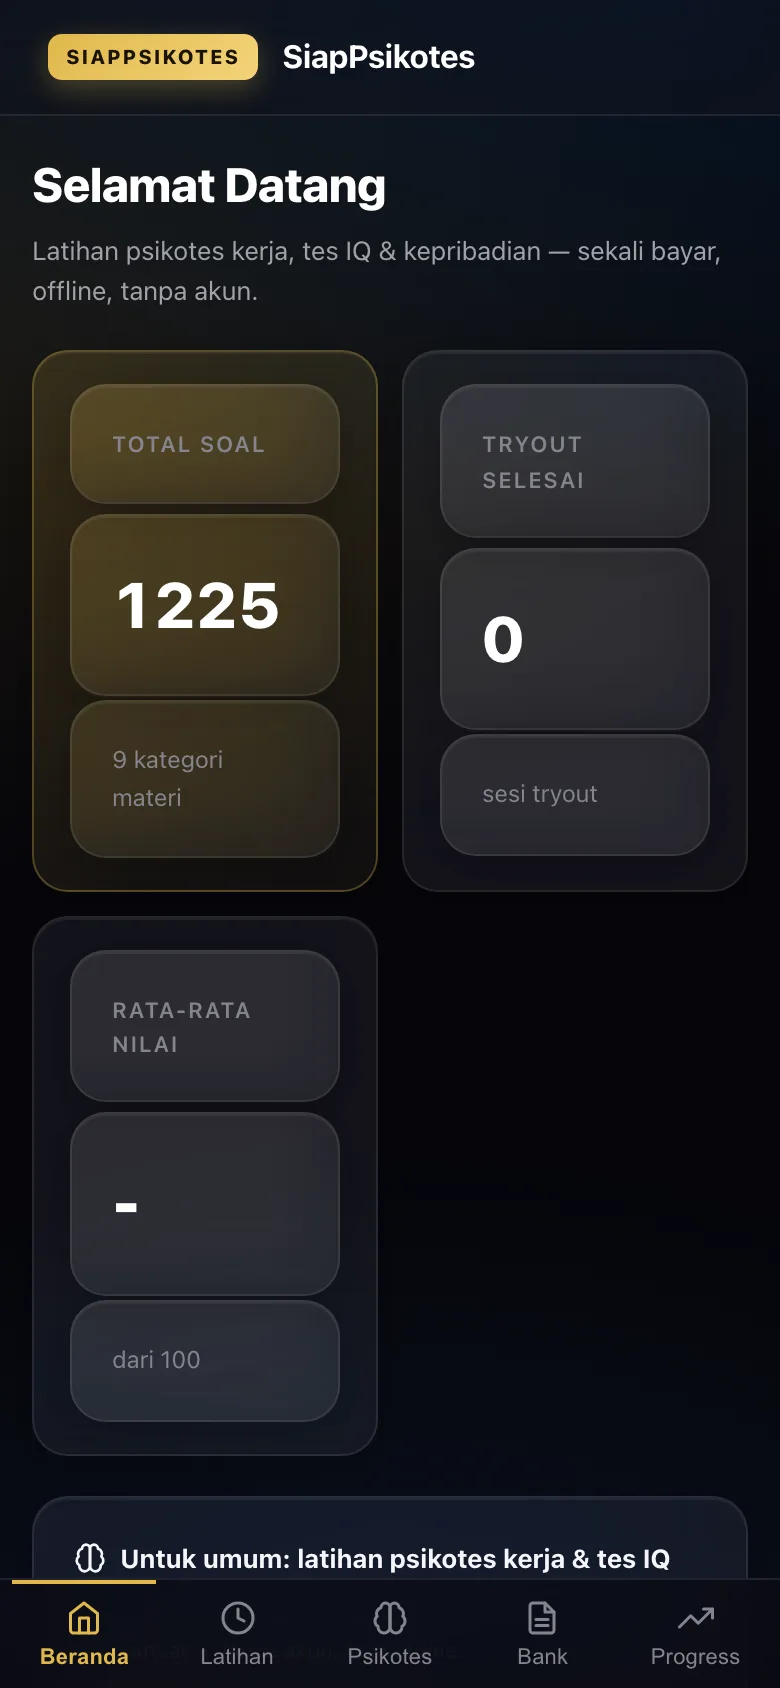
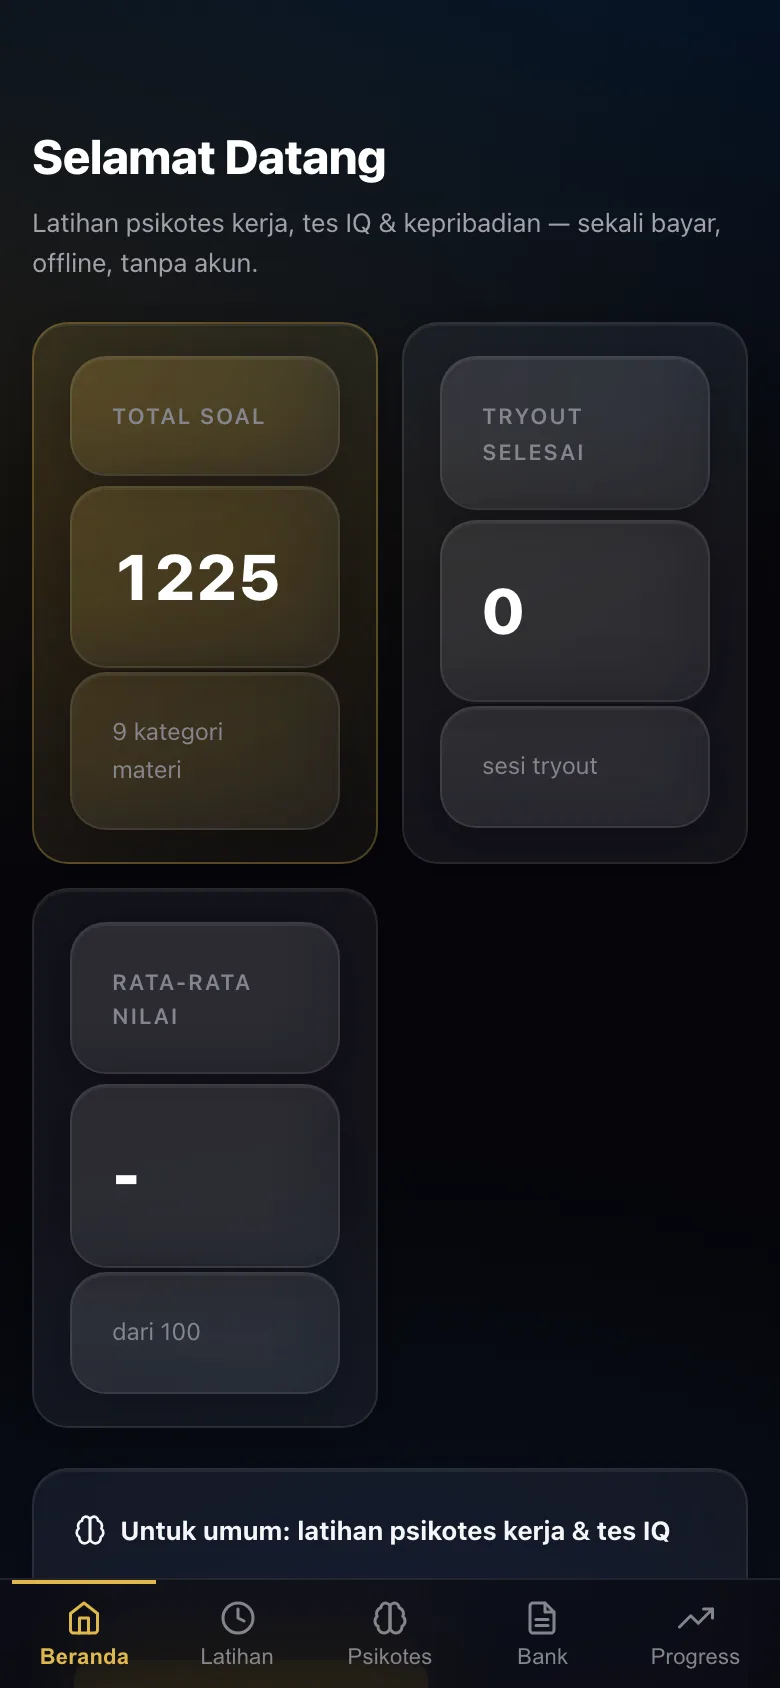
feat: prototipe iPhone RAPIH + contoh tes yang bisa diketuk-ketuk di layar iPhone
Permintaan pemilik: prototipenya dirapikan, dan kalau bisa bisa dipencet-pencet supaya kelihatan
bagaimana tesnya bekerja.

1. KERAPIAN BINGKAI (tiga cacat yang ditemukan dari tangkapan layar pemilik, semuanya diperbaiki)
   - Bilah status tiruan menabrak lencana kuning aplikasi: sekarang header aplikasi (class "topbar")
     DISEMBUNYIKAN saat memotret dan isi digeser 54 titik ke bawah, jadi mengikuti safe area iPhone asli.
   - Dynamic Island terlalu rendah & tebal: dipindah ke atas (12px), dibuat lebih tipis (78x22).
   - Ikon status tidak standar (titik-titik, tulisan "WIFI", kotak kecil): diganti GLYPH iPhone sungguhan
     dalam bentuk SVG - batang sinyal bertingkat, lengkung WiFi, dan baterai bergaris tepi dengan isi.
   Potret layar juga diperkecil: 118 KB -> 104 KB karena header tak lagi ikut.

2. CONTOH TES YANG BISA DIKETUK (3 soal contoh, bukan gambar mati)
   - Satu soal per jenis: wawasan kebangsaan (tanggal penetapan Pancasila sebagai dasar negara),
     deret angka (2, 4, 8, 16, ...), dan penalaran (semua peserta wajib membawa pensil).
   - Bisa diketuk: jawaban salah ditandai merah, jawaban benar ditandai hijau, pembahasan muncul,
     skor bertambah, tombol "Soal berikutnya", lalu layar SKOR AKHIR (mis. 2/3) dengan ajakan
     membuka akses penuh.
   - Petunjuk "Contoh tes - ketuk salah satu jawaban" supaya pengunjung tahu bisa diketuk.
   - Dibuat murni HTML/CSS/JS di halaman arahan: TIDAK menyentuh gerbang aplikasi dan tidak membuka
[…]

diff --git a/psikotes/index.html b/psikotes/index.html
@@ -134,8 +134,8 @@
                 0 0 70px -22px rgba(230,197,82,.38);
   }
   .ponsel .bingkai::before, .iphone::before {
-    content: ""; position: absolute; top: 20px; left: 50%; transform: translateX(-50%);
-    width: 88px; height: 25px; background: #05070c; border-radius: 15px; z-index: 3;
+    content: ""; position: absolute; top: 12px; left: 50%; transform: translateX(-50%);
+    width: 78px; height: 22px; background: #04060a; border-radius: 12px; z-index: 3;
   }
   .ponsel .bingkai::after, .iphone::after {
     content: ""; position: absolute; bottom: 15px; left: 50%; transform: translateX(-50%);
@@ -143,15 +143,51 @@
   }
   .ponsel .bingkai img, .iphone img { border-radius: 38px; display: block; width: 100%; height: auto; }
   .iphone-status {
-    position: absolute; top: 15px; left: 0; right: 0; z-index: 4;
+    position: absolute; top: 14px; left: 0; right: 0; z-index: 4;
     display: flex; justify-content: space-between; align-items: center;
-    padding: 0 26px; color: #fff; font-size: 12px; font-weight: 700; letter-spacing: .2px;
+    padding: 0 24px; color: #fff; font-size: 12.5px; font-weight: 600;
+    font-variant-numeric: tabular-nums; letter-spacing: .1px;
   }
-  .iphone-status .kanan { display: flex; gap: 4px; align-items: center; opacity: .95; }
+  .iphone-status .kanan { display: flex; gap: 5px; align-items: center; }
+  .iphone-status svg { display: block; }
   .iphone-sorot { position: absolute; inset: 0; border-radius: 50px; pointer-events: none;
     background: linear-gradient(160deg, rgba(255,255,255,.10) 0%, rgba(255,255,255,0) 38%); }
   .iphone-dasar { width: 100%; max-width: 330px; margin: 0 auto; }
 
+
+  /* Contoh tes yang bisa diketik-ketuk di layar iPhone */
+  .demo { display: flex; flex-direction: column; height: 100%; background: var(--bg); }
+  .demo-kepala { display: flex; justify-content: space-between; align-items: center;
+    padding: 8px 14px 6px; font-size: 12px; color: var(--muted); border-bottom: 1px solid var(--line); }
+  .demo-jalur { font-size: 10.5px; letter-spacing: .6px; text-transform: uppercase; color: var(--gold); font-weight: 700; }
+  .demo-isi { flex: 1; padding: 14px; display: flex; flex-direction: column; gap: 10px; overflow: hidden; }
+  .demo-soal { font-size: 14px; line-height: 1.5; color: var(--text); font-weight: 600; }
+  .demo-opsi { display: flex; align-items: center; gap: 10px; width: 100%; text-align: left;
+    padding: 11px 12px; border-radius: 12px; border: 1px solid var(--line2); background: var(--surface);
+    color: var(--text); font-size: 13.5px; font-family: inherit; cursor: pointer; transition: .18s; }
+  .demo-opsi:hover { border-color: var(--gold); transform: translateY(-1px); }
+  .demo-opsi .huruf { flex: 0 0 22px; height: 22px; border-radius: 50%; background: var(--bg2);
+    display: flex; align-items: center; justify-content: center; font-size: 11.5px; font-weight: 700; color: var(--muted); }
+  .demo-opsi.benar { border-color: #22c55e; background: rgba(34,197,94,.12); }
+  .demo-opsi.benar .huruf { background: #22c55e; color: #04140a; }
+  .demo-opsi.salah { border-color: #ef4444; background: rgba(239,68,68,.12); }
+  .demo-opsi.salah .huruf { background: #ef4444; color: #1a0505; }
+  .demo-opsi[disabled] { cursor: default; }
+  .demo-tanggapan { font-size: 12.5px; line-height: 1.5; color: var(--muted); min-height: 18px; }
+  .demo-tanggapan strong { color: var(--gold); }
+  .demo-kaki { padding: 10px 14px 14px; border-top: 1px solid var(--line); display: flex;
+    gap: 8px; align-items: center; }
+  .demo-lanjut { flex: 1; padding: 11px 14px; border-radius: 12px; border: 0; cursor: pointer;
+    background: linear-gradient(180deg, var(--gold), #c99a1f); color: #1a1405; font-weight: 700;
+    font-size: 13.5px; font-family: inherit; }
+  .demo-lanjut[hidden] { display: none; }
+  .demo-skor { font-size: 12px; color: var(--muted); }
+  .demo-hasil { flex: 1; display: flex; flex-direction: column; align-items: center; justify-content: center;
+    gap: 10px; text-align: center; padding: 18px; }
+  .demo-hasil .angka { font-size: 40px; font-weight: 800; color: var(--gold); line-height: 1; }
+  .demo-hasil p { margin: 0; font-size: 13px; color: var(--muted); line-height: 1.55; }
+  .demo-ajak { font-size: 11.5px; color: var(--text2); }
+  .demo-petunjuk { font-size: 11px; color: var(--gold); text-align: center; padding: 0 14px 10px; }
   .dua-kolom { display: grid; gap: 40px; align-items: center; }
   @media (min-width: 900px) {
     .dua-kolom { grid-template-columns: 1fr 1fr; gap: 56px; }
@@ -285,7 +321,17 @@
     <div class="lencana satu"><b>1.225</b><span>soal teraudit</span></div>
     <div class="lencana dua"><b>0</b><span>pelanggaran mutu</span></div>
     <div class="bingkai">
-      <span class="iphone-status"><span>9:41</span><span class="kanan">●●●● <span style="font-size:11px">WIFI</span> ▮</span></span><img src="img/iphone-soal.webp" width="780" height="1688" fetchpriority="high" alt="Aplikasi SiapPsikotes di iPhone: soal wawasan kebangsaan dengan pilihan A sampai D"><span class="iphone-sorot"></span>
+      <span class="iphone-status" aria-hidden="true"><span>9:41</span><span class="kanan"><svg width="17" height="11" viewBox="0 0 17 11" fill="currentColor" aria-hidden="true"><rect x="0" y="7.5" width="3" height="3.5" rx="1"/><rect x="4.6" y="5.4" width="3" height="5.6" rx="1"/><rect x="9.2" y="2.8" width="3" height="8.2" rx="1"/><rect x="13.8" y="0" width="3" height="11" rx="1"/></svg><svg width="16" height="11" viewBox="0 0 16 11" fill="none" stroke="currentColor" stroke-width="1.6" stroke-linecap="round" aria-hidden="true"><path d="M1 3.3a10.4 10.4 0 0 1 14 0"/><path d="M3.7 6.1a7 7 0 0 1 8.6 0"/><path d="M6.3 8.8a3.4 3.4 0 0 1 3.4 0"/></svg><svg width="25" height="12" viewBox="0 0 25 12" fill="none" aria-hidden="true"><rect x="0.5" y="0.5" width="21" height="11" rx="3.2" stroke="currentColor" stroke-opacity=".5"/><rect x="2" y="2" width="16" height="8" rx="2" fill="currentColor"/><path d="M23 4.2v3.6a2 2 0 0 0 0-3.6z" fill="currentColor" fill-opacity=".5"/></svg></span></span><div class="demo" id="demoContoh" data-langkah="0">
+          <div class="demo-kepala"><span id="demoNomor">SOAL 1 / 3</span><span class="demo-jalur" id="demoJalur">Wawasan kebangsaan</span></div>
+          <div class="demo-isi" id="demoIsi"></div>
+          <div class="demo-tanggapan" id="demoTanggapan" aria-live="polite"></div>
+          <div class="demo-petunjuk" id="demoPetunjuk">Contoh tes — ketuk salah satu jawaban</div>
+          <div class="demo-kaki">
+            <span class="demo-skor" id="demoSkor">Skor 0</span>
+            <button class="demo-lanjut" id="demoLanjut" hidden>Soal berikutnya</button>
+          </div>
+        </div>
+        <span class="iphone-sorot"></span>
     </div>
   </div>
 </div>
@@ -350,7 +396,7 @@
         <li>Bukan diagnosis psikologi dan bukan penentu kelulusan — hasilnya untuk mengenali dirimu.</li>
       </ul>
     </div>
-    <div class="iphone iphone-dasar"><span class="iphone-status"><span>9:41</span><span class="kanan">●●●● <span style="font-size:11px">WIFI</span> ▮</span></span><img src="img/iphone-hasil.webp" width="780" height="1688" loading="lazy" decoding="async" alt="Aplikasi SiapPsikotes di iPhone: hasil tes kepribadian lima sifat dengan penjelasan"><span class="iphone-sorot"></span></div>
+    <div class="iphone iphone-dasar"><span class="iphone-status" aria-hidden="true"><span>9:41</span><span class="kanan"><svg width="17" height="11" viewBox="0 0 17 11" fill="currentColor" aria-hidden="true"><rect x="0" y="7.5" width="3" height="3.5" rx="1"/><rect x="4.6" y="5.4" width="3" height="5.6" rx="1"/><rect x="9.2" y="2.8" width="3" height="8.2" rx="1"/><rect x="13.8" y="0" width="3" height="11" rx="1"/></svg><svg width="16" height="11" viewBox="0 0 16 11" fill="none" stroke="currentColor" stroke-width="1.6" stroke-linecap="round" aria-hidden="true"><path d="M1 3.3a10.4 10.4 0 0 1 14 0"/><path d="M3.7 6.1a7 7 0 0 1 8.6 0"/><path d="M6.3 8.8a3.4 3.4 0 0 1 3.4 0"/></svg><svg width="25" height="12" viewBox="0 0 25 12" fill="none" aria-hidden="true"><rect x="0.5" y="0.5" width="21" height="11" rx="3.2" stroke="currentColor" stroke-opacity=".5"/><rect x="2" y="2" width="16" height="8" rx="2" fill="currentColor"/><path d="M23 4.2v3.6a2 2 0 0 0 0-3.6z" fill="currentColor" fill-opacity=".5"/></svg></span></span><img src="img/iphone-hasil.webp" width="780" height="1688" loading="lazy" decoding="async" alt="Aplikasi SiapPsikotes di iPhone: hasil tes kepribadian lima sifat dengan penjelasan"><span class="iphone-sorot"></span></div>
   </div>
 </section>
 
@@ -367,7 +413,7 @@
       </ul>
       <p><a href="../mutu/">Lihat apa saja yang kami periksa dan hasilnya →</a></p>
     </div>
-    <div class="iphone iphone-dasar"><span class="iphone-status"><span>9:41</span><span class="kanan">●●●● <span style="font-size:11px">WIFI</span> ▮</span></span><img src="img/iphone-beranda.webp" width="780" height="1688" loading="lazy" decoding="async" alt="Aplikasi SiapPsikotes di iPhone: beranda dengan jalur seleksi dan pilihan modul latihan"><span class="iphone-sorot"></span></div>
+    <div class="iphone iphone-dasar"><span class="iphone-status" aria-hidden="true"><span>9:41</span><span class="kanan"><svg width="17" height="11" viewBox="0 0 17 11" fill="currentColor" aria-hidden="true"><rect x="0" y="7.5" width="3" height="3.5" rx="1"/><rect x="4.6" y="5.4" width="3" height="5.6" rx="1"/><rect x="9.2" y="2.8" width="3" height="8.2" rx="1"/><rect x="13.8" y="0" width="3" height="11" rx="1"/></svg><svg width="16" height="11" viewBox="0 0 16 11" fill="none" stroke="currentColor" stroke-width="1.6" stroke-linecap="round" aria-hidden="true"><path d="M1 3.3a10.4 10.4 0 0 1 14 0"/><path d="M3.7 6.1a7 7 0 0 1 8.6 0"/><path d="M6.3 8.8a3.4 3.4 0 0 1 3.4 0"/></svg><svg width="25" height="12" viewBox="0 0 25 12" fill="none" aria-hidden="true"><rect x="0.5" y="0.5" width="21" height="11" rx="3.2" stroke="currentColor" stroke-opacity=".5"/><rect x="2" y="2" width="16" height="8" rx="2" fill="currentColor"/><path d="M23 4.2v3.6a2 2 0 0 0 0-3.6z" fill="currentColor" fill-opacity=".5"/></svg></span></span><img src="img/iphone-beranda.webp" width="780" height="1688" loading="lazy" decoding="async" alt="Aplikasi SiapPsikotes di iPhone: beranda dengan jalur seleksi dan pilihan modul latihan"><span class="iphone-sorot"></span></div>
   </div>
 </section>
 
@@ -593,6 +639,94 @@
       document.querySelectorAll('.muncul').forEach(function (b) { b.classList.add('tampil'); });
     }, 1200);
   })();
+</script>
+
+<script>
+(function () {
+  var kotak = document.getElementById('demoContoh');
+  if (!kotak) return;
+  var SOAL = [
+    { jalur: 'Wawasan kebangsaan', tanya: 'Pancasila ditetapkan sebagai dasar negara pada tanggal...',
+      opsi: ['18 Agustus 1945', '1 Juni 1945', '22 Juni 1945', '17 Agustus 1945'], benar: 0,
+      bahas: 'Sidang PPKI pada 18 Agustus 1945 menetapkan UUD 1945 yang memuat Pancasila sebagai dasar negara.' },
+    { jalur: 'Deret angka', tanya: 'Lanjutkan deret berikut: 2, 4, 8, 16, ...',
+      opsi: ['20', '24', '32', '64'], benar: 2,
+      bahas: 'Tiap angka dikali 2 dari angka sebelumnya: 16 x 2 = 32.' },
+    { jalur: 'Penalaran', tanya: 'Semua peserta wajib membawa pensil. Budi adalah peserta. Maka...',
+      opsi: ['Budi wajib membawa pensil', 'Budi tidak wajib membawa pensil', 'Budi hanya peserta', 'Tidak dapat disimpulkan'],
+      benar: 0, bahas: 'Kesimpulan yang sah: karena semua peserta wajib, dan Budi peserta, maka Budi wajib membawa pensil.' }
+  ];
+  var i = 0, skor = 0, terjawab = false;
+  var isi = document.getElementById('demoIsi');
+  var tgp = document.getElementById('demoTanggapan');
+  var nomor = document.getElementById('demoNomor');
+  var jalur = document.getElementById('demoJalur');
+  var skorEl = document.getElementById('demoSkor');
+  var lanjut = document.getElementById('demoLanjut');
+  var petunjuk = document.getElementById('demoPetunjuk');
+
+  function gambar() {
+    var s = SOAL[i];
+    terjawab = false;
+    nomor.textContent = 'SOAL ' + (i + 1) + ' / ' + SOAL.length;
+    jalur.textContent = s.jalur;
+    tgp.innerHTML = '';
+    lanjut.hidden = true;
+    petunjuk.hidden = false;
+    var html = '<div class="demo-soal">' + s.tanya + '</div>';
+    for (var k = 0; k < s.opsi.length; k++) {
+      html += '<button class="demo-opsi" type="button" data-opsi="' + k + '">' +
+              '<span class="huruf">' + 'ABCD'[k] + '</span><span>' + s.opsi[k] + '</span></button>';
+    }
+    isi.innerHTML = html;
+  }
+
+  function jawab(pilih) {
+    if (terjawab) return;
+    terjawab = true;
+    petunjuk.hidden = true;
+    var s = SOAL[i];
+    var tombol = isi.querySelectorAll('.demo-opsi');
+    for (var k = 0; k < tombol.length; k++) {
+      tombol[k].disabled = true;
+      if (k === s.benar) tombol[k].classList.add('benar');
+      else if (k === pilih) tombol[k].classList.add('salah');
+    }
+    var tepat = (pilih === s.benar);
+    if (tepat) skor++;
+    skorEl.textContent = 'Skor ' + skor;
+    tgp.innerHTML = (tepat ? '<strong>Benar.</strong> ' : '<strong>Belum tepat.</strong> ') + s.bahas;
+    lanjut.hidden = false;
+    lanjut.textContent = (i === SOAL.length - 1) ? 'Lihat hasil' : 'Soal berikutnya';
+  }
+
+  isi.addEventListener('click', function (e) {
+    var t = e.target.closest ? e.target.closest('.demo-opsi') : null;
+    if (!t) return;
+    jawab(parseInt(t.getAttribute('data-opsi'), 10));
+  });
+
+  lanjut.addEventListener('click', function () {
+    if (i === SOAL.length - 1) {
+      isi.innerHTML = '<div class="demo-hasil"><div class="angka">' + skor + '/' + SOAL.length + '</div>' +
+        '<p id="demoRingkas"></p><p class="demo-ajak">Kamu baru mengerjakan 3 soal contoh. ' +
+        'Akses penuh berisi 1.225 soal dengan pembahasan seperti ini.</p>' +
+        '<a class="demo-lanjut" style="text-decoration:none;text-align:center" href="../">Buka akses penuh — Rp 39.000</a></div>';
+      nomor.textContent = 'HASIL CONTOH';
+      jalur.textContent = 'Selesai';
+      tgp.innerHTML = '';
+      lanjut.hidden = true;
+      petunjuk.hidden = true;
+      var r = document.getElementById('demoRingkas');
+      if (r) r.textContent = 'Skor contohmu ' + skor + ' dari ' + SOAL.length + '.';
+      return;
+    }
+    i++;
+    gambar();
+  });
+
+  gambar();
+})();
 </script>
 </body>
 </html>
